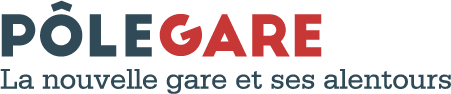
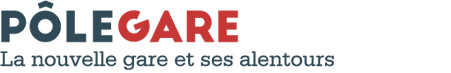
New template for header

diff --git a/app/assets/stylesheets/survey.scss b/app/assets/stylesheets/survey.scss
@@ -13,6 +13,30 @@ $color-pole-gare: #1a4a5b;
   border-color: #356778;
   color: white;
 }
+.head{
+	img{
+		width: 100%;
+	}
+	.head-medium,.head-large{
+		display: none
+	}
+	@media (min-width: 768px) {
+		.head-small,.head-large{
+			display: none
+		}
+		.head-medium{
+			display: inline-block;
+		}
+	}
+	@media (min-width: 1920px) {
+		.head-small,.head-medium{
+			display: none
+		}
+		.head-large{
+			display: inline-block;
+		}
+	}
+}
 .map-buttons .btn {
   margin-left: 2%;
   margin-right: 0px;
@@ -83,7 +107,6 @@ header{
 		font-size: 18px;
 		p{
 			margin-top: 20px;
-			padding:10px;
 		}
 		img{
 			width: 100%;
